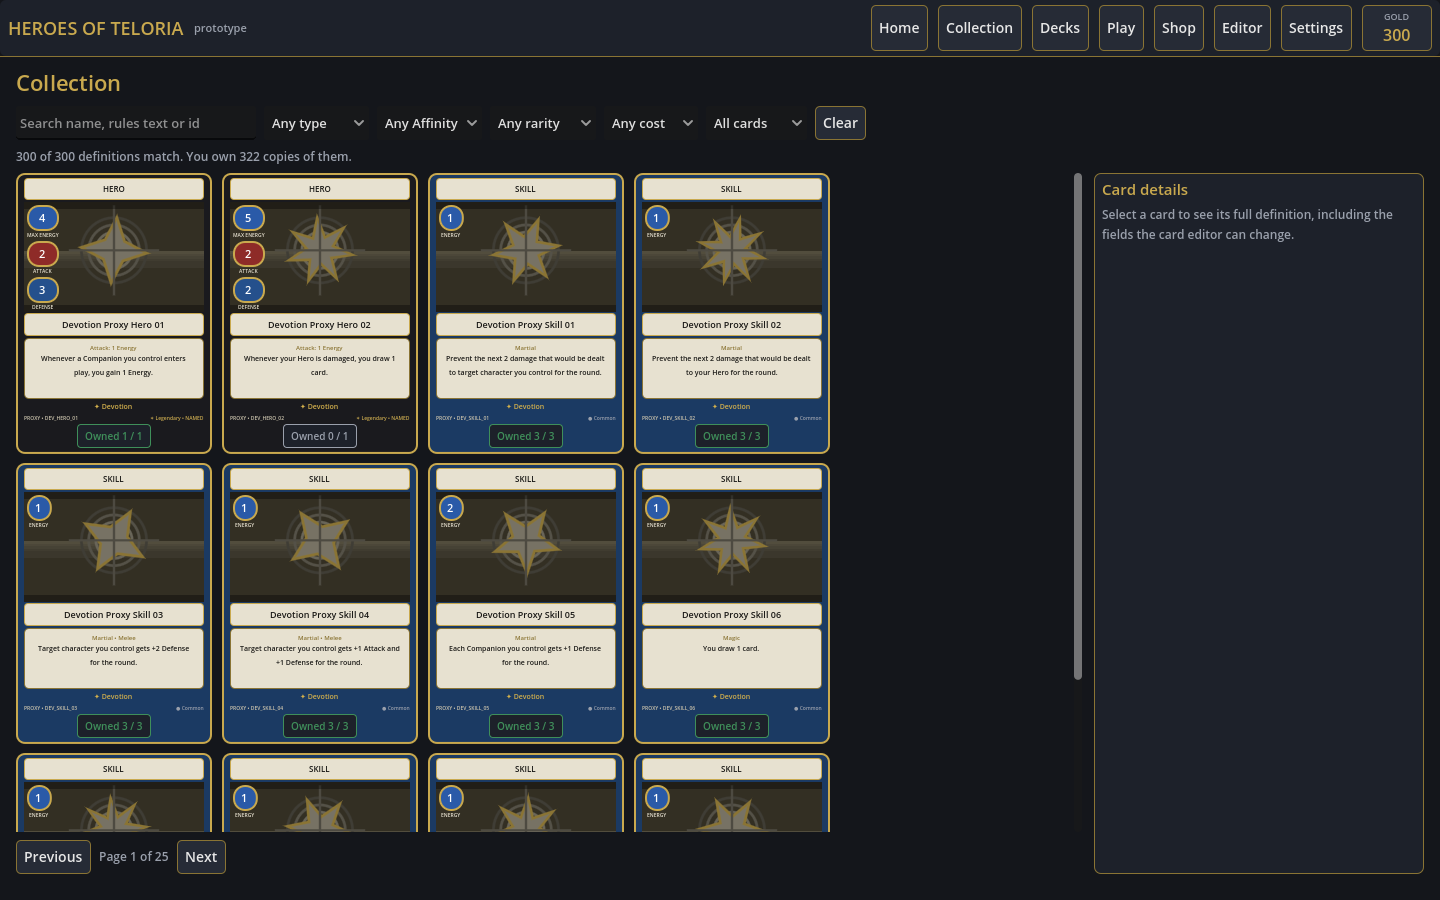
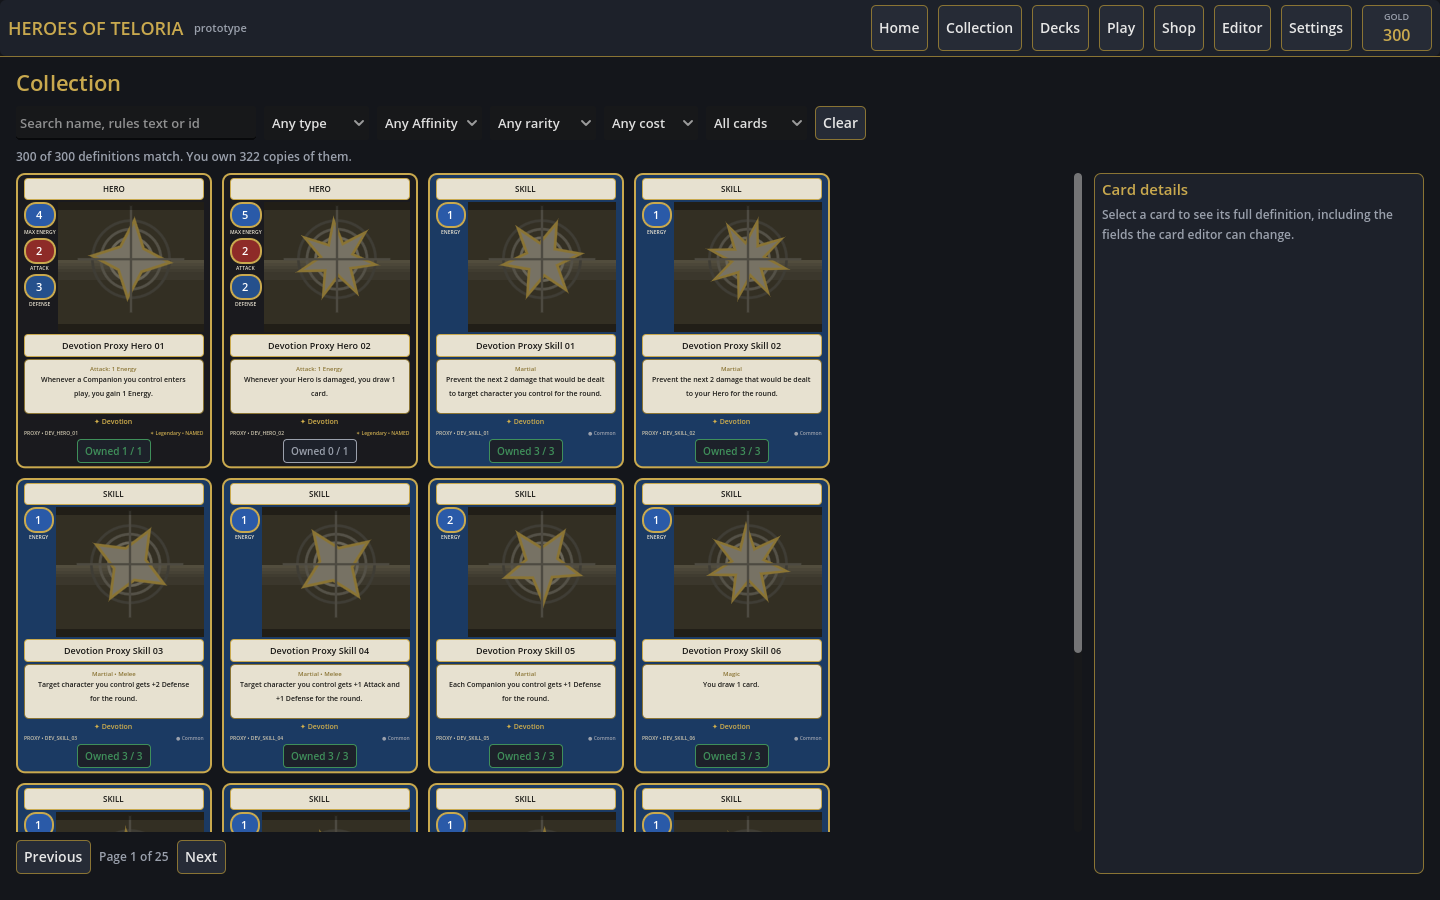
Add Parfait, the Unyielding Flame as the first finished card
Replaces the PAS_HERO_01 proxy with the supplied card. She is also the
blueprint's confirmed Energy-timing example, so the shipped definition
is now pinned by tests alongside the existing engine fixture.

The card:
- Passion Hero, Legendary, Unique, named character "parfait".
- Maximum Energy 4, Attack 3, Defense 1, attack costs 1 Energy.
- Her attack is tagged Martial and Melee.
- Whenever a Passion card resolves while she is in the Action Sequence,
  she returns 1 Energy. Her own attack triggers it before she leaves.
- Her portrait was cropped out of the supplied card face into
  assets/art/parfait_the_unyielding_flame.png.

Because her id did not change, the Passion starter deck and the Passion
AI decklist still reference her without any edit, and owned copies and
saved decks are untouched.

Supporting changes:
- attack_tags on characters, printed on the attack line. Martial and
  Magic stay Skill tags, so an attack's tags need their own field.
- short_name, so a character's generated text can name itself the way a
  printed card does rather than saying "this character".
- The catalog generator refreshes an authored card's rules text from its
  effects, keeping printed text and behaviour in step even on finished
  cards.
- Stat bubbles moved into a left gutter, matching the template, so they
  no longer sit on top of a character's face. The portrait window was
  enlarged to the template's proportions.
- A finished card's footer drops the PROXY marker.
[…]

Changed region(s): [[0.0, 0.2178, 0.5938, 0.9333]]

diff --git a/tools/generate_catalog.py b/tools/generate_catalog.py
@@ -1058,7 +1058,12 @@ def finish(body, *, code, key, display, hue, role, kind, index, rarity,
     # undoing the work.
     prior = EXISTING.get(cid)
     if prior is not None and prior.get("authored"):
-        return prior
+        kept = dict(prior)
+        # Rules text stays engine-generated even on a finished card, so the
+        # printed text can never drift from what the interpreter runs.
+        if cid in CARD_TEXT:
+            kept["text"] = CARD_TEXT[cid]
+        return kept
 
     name = "%s Proxy %s %02d" % (display, TYPE_WORD[kind], index)
     is_neutral = key == "neutral"

diff --git a/docs/ADDING_CARDS.md b/docs/ADDING_CARDS.md
@@ -42,12 +42,26 @@ ask about.
 | Adds to max Energy | 2 | Companions only. |
 | Unique or named character | Named: Parfait | Either restricts it to one copy per deck. |
 | What it does | "Deal 2 damage to the opposing Hero, then draw a card." | Plain English is fine. |
-| Art file | `emberfall_strike.png` | Drop the file in `assets/art/`. |
+| Art file | `emberfall_strike.png` | Drop the file in `assets/art/`. A full card face is fine too: I crop the portrait out of it. |
 | Flavour text | optional | |
 
 I will turn the plain-English effect into the structured effect data, and the
 card's rules text is then generated from that data. That is what guarantees the
 printed text and the actual behaviour cannot drift apart.
+
+## A worked example
+
+`PAS_HERO_01` was the proxy "Passion Proxy Hero 01". It is now Parfait, the
+Unyielding Flame, taken from a supplied card face:
+
+* the portrait was cropped out of the card face into
+  `assets/art/parfait_the_unyielding_flame.png`;
+* her statistics, Affinity, rarity and attack tags were read off the card;
+* her ability became a trigger, and the rules text was generated from it;
+* `short_name` is "Parfait", so her text names her the way the printed card
+  does rather than saying "this character";
+* the id did not change, so the Passion starter deck and the Passion AI deck
+  still reference her without any edit.
 
 ## What I will tell you back
 

diff --git a/assets/art/README.md b/assets/art/README.md
@@ -27,6 +27,19 @@ A definition's `art` block may name an image:
 | `cover` (default) | Fills the window and crops the overflow. Best for a painted portrait. |
 | `contain` | Shows the whole image on a dark ground. Best when nothing may be cropped. |
 
+## Supplying a full card face
+
+If you have a finished card face rather than a bare portrait, send it as it is.
+`tools/crop_art.gd` lifts the portrait out of it:
+
+```sh
+godot --headless --path . --script tools/crop_art.gd -- \
+    /path/to/card_face.png res://assets/art/name.png X Y WIDTH HEIGHT
+```
+
+The portrait window on a rendered card is roughly 1.17 times wider than it is
+tall, so a crop at about that ratio fills it without anything being cut off.
+
 ## Practical notes
 
 * **A missing file is not an error.** The card falls back to its placeholder

diff --git a/README.md b/README.md
@@ -19,7 +19,7 @@ establish no Teloria lore or final balance.
 | Progression | Gold, boosters, duplicate conversion, idempotent rewards, durable pack transactions. |
 | Persistence | Versioned save with atomic writes, backup rotation, export and import. |
 | Interface | Home, Collection, Deck builder, Opponent selection, Battle, Results, Shop, Card editor, Settings. |
-| Tests | 723 assertions across five suites, all passing. |
+| Tests | 760 assertions across five suites, all passing. |
 
 ## Requirements
 
